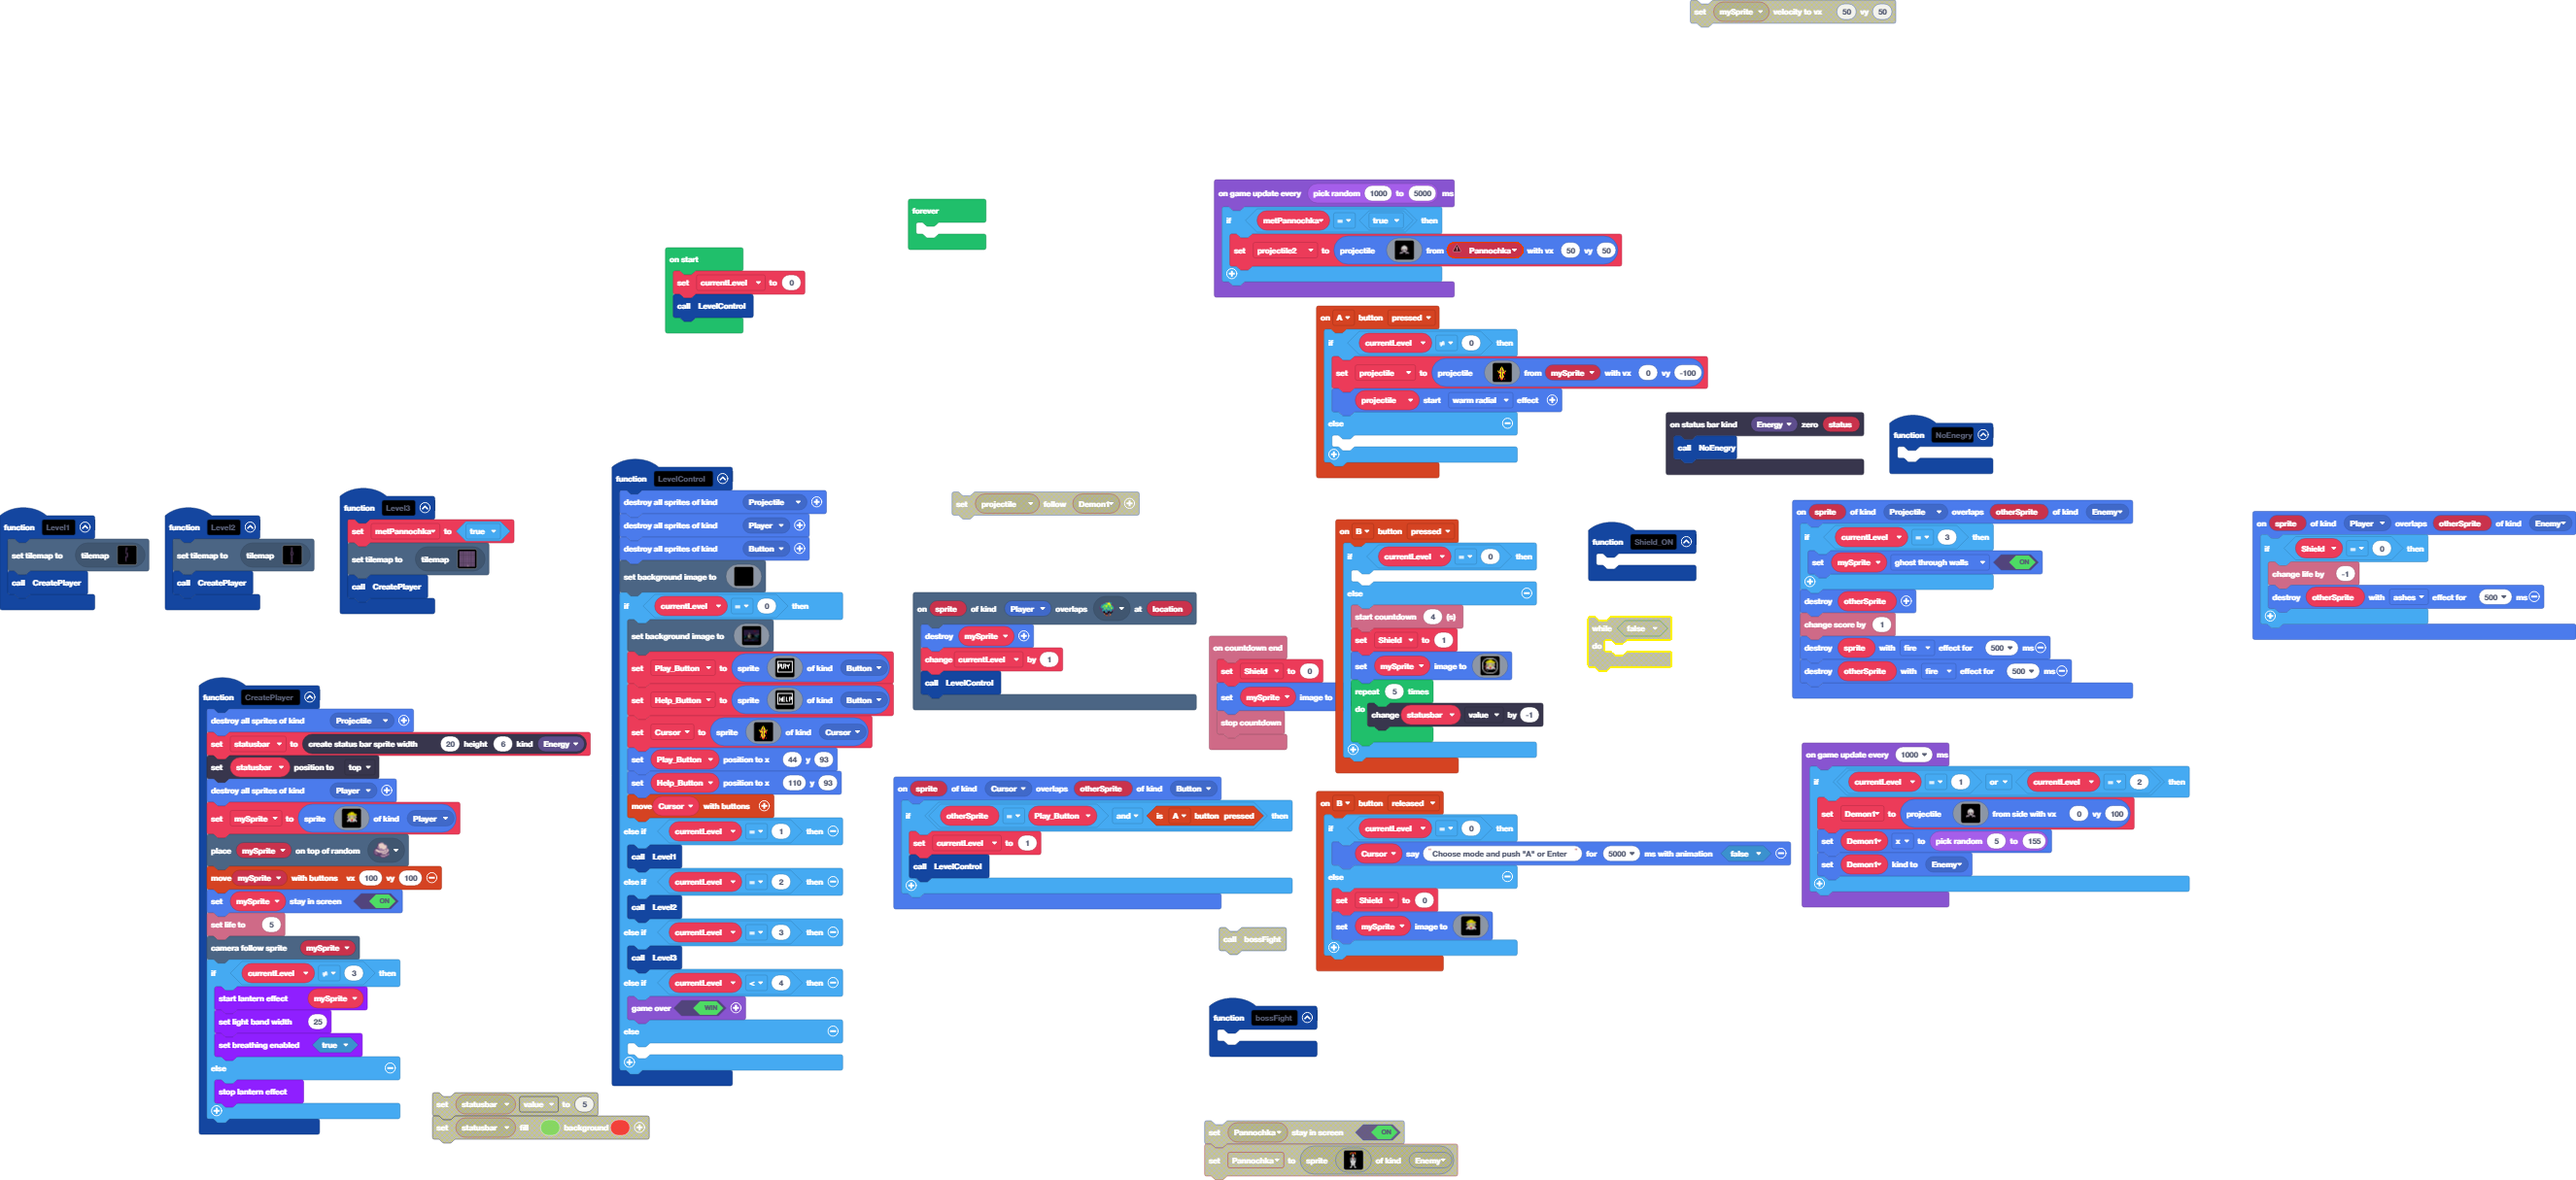
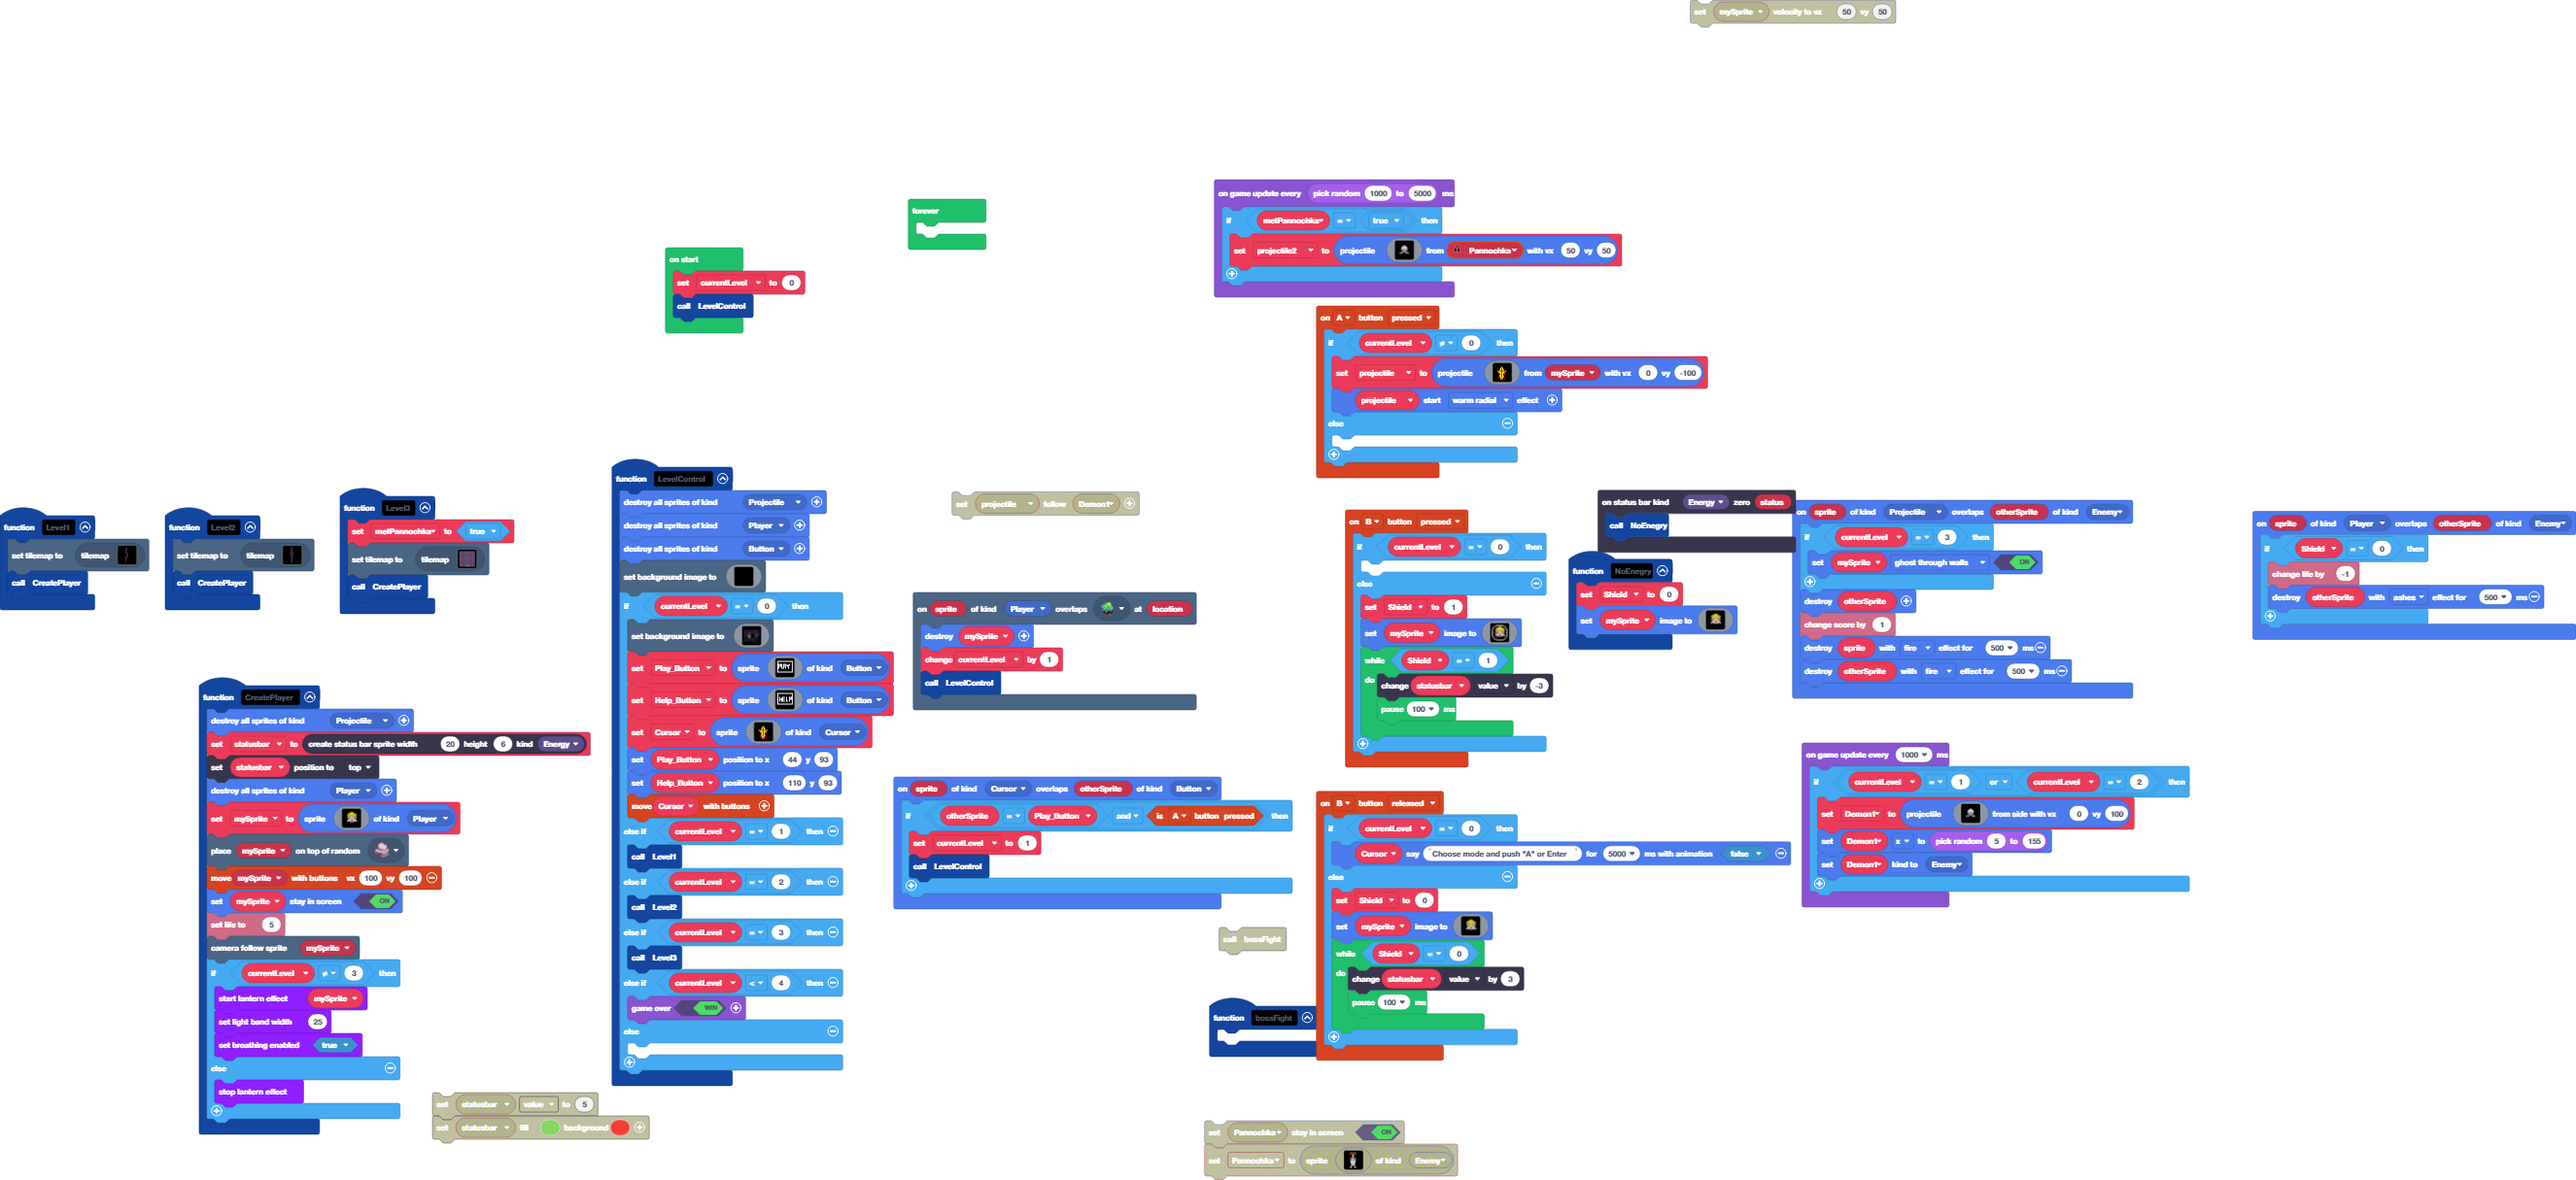
Зроблений щит

Changed region(s): [[0.464, 0.335, 0.7733, 0.67], [0.4949, 0.7918, 0.5877, 0.9136]]

diff --git a/main.ts b/main.ts
@@ -321,14 +321,10 @@ function LevelControl () {
     	
     }
 }
-function Shield_ON () {
-	
-}
 controller.B.onEvent(ControllerButtonEvent.Pressed, function () {
     if (currentLevel == 0) {
     	
     } else {
-        info.startCountdown(4)
         Shield = 1
         mySprite.setImage(img`
             .....111111111.....
@@ -351,8 +347,9 @@ controller.B.onEvent(ControllerButtonEvent.Pressed, function () {
             ...11.........11...
             .....111111111.....
             `)
-        for (let index = 0; index < 5; index++) {
-            statusbar.value += -1
+        while (Shield == 1) {
+            statusbar.value += -3
+            pause(100)
         }
     }
 })
@@ -442,31 +439,6 @@ function Level1 () {
     tiles.setCurrentTilemap(tilemap`level1`)
     CreatePlayer()
 }
-info.onCountdownEnd(function () {
-    Shield = 0
-    mySprite.setImage(img`
-        ...................
-        ...................
-        ........5555.......
-        ......5555555......
-        .....5555555555....
-        ....555555555555...
-        .....dddddddddd....
-        .....d55dddd55d....
-        ....dd66dddd66dd...
-        .....33d5555d33....
-        ......d5dddd5d.....
-        .....1111221111....
-        ....111112211111...
-        ....db.111111.bd...
-        .......ffffff......
-        .......ff..ff......
-        ...................
-        ...................
-        ...................
-        `)
-    info.stopCountdown()
-})
 controller.B.onEvent(ControllerButtonEvent.Released, function () {
     if (currentLevel == 0) {
         Cursor.sayText("Choose mode and push \"A\" or Enter", 5000, false)
@@ -493,6 +465,10 @@ controller.B.onEvent(ControllerButtonEvent.Released, function () {
             ...................
             ...................
             `)
+        while (Shield == 0) {
+            statusbar.value += 3
+            pause(100)
+        }
     }
 })
 scene.onOverlapTile(SpriteKind.Player, sprites.castle.saplingOak, function (sprite, location) {
@@ -519,7 +495,28 @@ sprites.onOverlap(SpriteKind.Player, SpriteKind.Enemy, function (sprite, otherSp
     }
 })
 function NoEnegry () {
-	
+    Shield = 0
+    mySprite.setImage(img`
+        ...................
+        ...................
+        ........5555.......
+        ......5555555......
+        .....5555555555....
+        ....555555555555...
+        .....dddddddddd....
+        .....d55dddd55d....
+        ....dd66dddd66dd...
+        .....33d5555d33....
+        ......d5dddd5d.....
+        .....1111221111....
+        ....111112211111...
+        ....db.111111.bd...
+        .......ffffff......
+        .......ff..ff......
+        ...................
+        ...................
+        ...................
+        `)
 }
 let Demon1: Sprite = null
 let projectile2: Sprite = null
